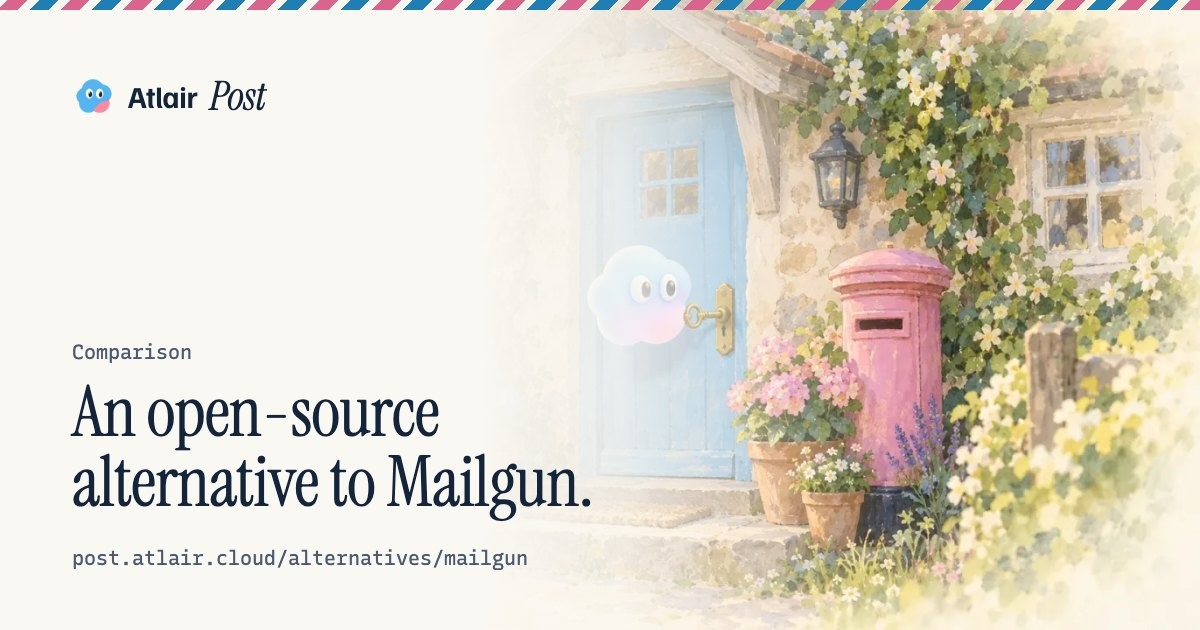
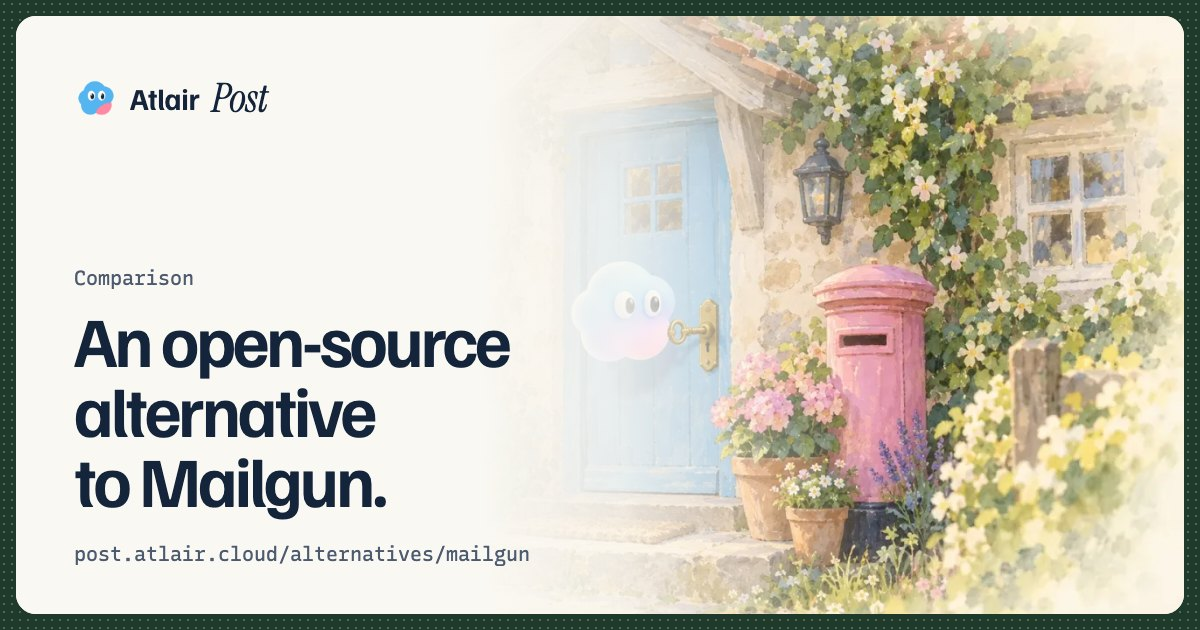
Restyle comparison and use-case pages and refresh share images
- Sans headings and small corners on the comparison, use-case and not-found pages to match the home page
- Comparison hub as separate cards, without the empty filler cell
- OG images in the new look: forest green frame, sans titles, "The post office is open." on the home card

diff --git a/apps/site/app/components/landing/alternative-page.tsx b/apps/site/app/components/landing/alternative-page.tsx
@@ -52,7 +52,7 @@ export function AlternativePage({ alt }: { alt: Alternative }) {
               </a>{' '}
               / {alt.name}
             </nav>
-            <h1 data-reveal style={delay(80)} className="mt-6 font-serif text-[3.25rem] leading-[0.98] text-balance sm:text-7xl">
+            <h1 data-reveal style={delay(80)} className="mt-6 text-[2.875rem] leading-[1] font-semibold tracking-[-0.045em] text-balance sm:text-7xl">
               {alt.openSource ? `${PRODUCT} vs ${label}.` : `An open-source alternative to ${label}.`}
             </h1>
             <p data-reveal style={delay(160)} className="mt-6 max-w-xl text-lg text-ink-soft sm:text-xl">
@@ -74,7 +74,7 @@ export function AlternativePage({ alt }: { alt: Alternative }) {
           <h2 id="compare-title" className="sr-only">
             {PRODUCT} and {label} compared
           </h2>
-          <div data-reveal className="overflow-x-auto rounded-2xl border border-line bg-card">
+          <div data-reveal className="overflow-x-auto rounded-lg border border-line bg-card">
             <table className="w-full min-w-[36rem] text-left text-[15px]">
               <thead>
                 <tr className="border-b border-line">
@@ -104,7 +104,7 @@ export function AlternativePage({ alt }: { alt: Alternative }) {
               { title: `Choose ${label} if`, items: alt.chooseThem },
             ].map((col, i) => (
               <div key={col.title} data-reveal style={delay(i * 100)}>
-                <h2 className="font-serif text-4xl">{col.title}</h2>
+                <h2 className="text-3xl font-semibold tracking-[-0.03em]">{col.title}</h2>
                 <ul className="mt-5 space-y-3">
                   {col.items.map((item) => (
                     <li key={item} className="flex gap-3 text-lg text-ink-soft">
@@ -127,7 +127,7 @@ export function AlternativePage({ alt }: { alt: Alternative }) {
               <details key={item.q} className="group border-b border-line">
                 <summary className="flex cursor-pointer list-none items-center justify-between gap-6 py-5 text-[17px] font-medium tracking-tight hover:text-sky-deep [&::-webkit-details-marker]:hidden">
                   {item.q}
-                  <span className="grid size-7 shrink-0 place-items-center rounded-full border border-line text-ink-soft transition-transform duration-300 group-open:rotate-45">
+                  <span className="grid size-7 shrink-0 place-items-center rounded-sm border border-line text-ink-soft transition-transform duration-300 group-open:rotate-45">
                     <Plus aria-hidden className="size-3.5" />
                   </span>
                 </summary>
@@ -146,7 +146,7 @@ export function AlternativePage({ alt }: { alt: Alternative }) {
           <ul className="mt-4 flex flex-wrap gap-2">
             {others.map((a) => (
               <li key={a.slug}>
-                <a href={`/alternatives/${a.slug}`} className="inline-flex h-9 items-center rounded-full border border-line bg-card px-4 text-sm hover:border-ink-faint">
+                <a href={`/alternatives/${a.slug}`} className="inline-flex h-9 items-center rounded-md border border-line bg-card px-4 text-sm hover:border-ink-faint">
                   {a.slug === 'amazon-ses' ? 'Amazon SES' : a.name}
                 </a>
               </li>

diff --git a/apps/site/app/components/landing/use-case-page.tsx b/apps/site/app/components/landing/use-case-page.tsx
@@ -25,7 +25,7 @@ export function UseCasePage({ useCase }: { useCase: UseCase }) {
               </a>{' '}
               / {useCase.name}
             </nav>
-            <h1 data-reveal style={delay(80)} className="mt-6 font-serif text-[3.25rem] leading-[0.98] text-balance sm:text-7xl">
+            <h1 data-reveal style={delay(80)} className="mt-6 text-[2.875rem] leading-[1] font-semibold tracking-[-0.045em] text-balance sm:text-7xl">
               {useCase.title}
             </h1>
             <p data-reveal style={delay(160)} className="mt-6 max-w-xl text-lg text-ink-soft sm:text-xl">
@@ -51,13 +51,13 @@ export function UseCasePage({ useCase }: { useCase: UseCase }) {
             <ul className="space-y-8">
               {useCase.points.map((p, i) => (
                 <li key={p.title} data-reveal style={delay(i * 80)}>
-                  <p className="font-serif text-3xl">{p.title}</p>
+                  <p className="text-2xl font-semibold tracking-tight">{p.title}</p>
                   <p className="mt-1.5 text-lg text-ink-soft">{p.body}</p>
                 </li>
               ))}
             </ul>
           </div>
-          <div data-reveal style={delay(120)} className="min-w-0 self-start overflow-hidden rounded-2xl border border-line bg-card">
+          <div data-reveal style={delay(120)} className="min-w-0 self-start overflow-hidden rounded-lg border border-line bg-card">
             <div className="flex items-center justify-between border-b border-line px-5 py-3">
               <span className="font-mono text-xs text-ink-faint">POST /service/web/emails</span>
               <Copy aria-hidden className="size-3.5 text-ink-faint" />
@@ -79,7 +79,7 @@ export function UseCasePage({ useCase }: { useCase: UseCase }) {
               <details key={item.q} className="group border-b border-line">
                 <summary className="flex cursor-pointer list-none items-center justify-between gap-6 py-5 text-[17px] font-medium tracking-tight hover:text-sky-deep [&::-webkit-details-marker]:hidden">
                   {item.q}
-                  <span className="grid size-7 shrink-0 place-items-center rounded-full border border-line text-ink-soft transition-transform duration-300 group-open:rotate-45">
+                  <span className="grid size-7 shrink-0 place-items-center rounded-sm border border-line text-ink-soft transition-transform duration-300 group-open:rotate-45">
                     <Plus aria-hidden className="size-3.5" />
                   </span>
                 </summary>
@@ -98,7 +98,7 @@ export function UseCasePage({ useCase }: { useCase: UseCase }) {
           <ul className="mt-4 flex flex-wrap gap-2">
             {others.map((u) => (
               <li key={u.slug}>
-                <a href={`/use-cases/${u.slug}`} className="inline-flex h-9 items-center gap-1.5 rounded-full border border-line bg-card px-4 text-sm hover:border-ink-faint">
+                <a href={`/use-cases/${u.slug}`} className="inline-flex h-9 items-center gap-1.5 rounded-md border border-line bg-card px-4 text-sm hover:border-ink-faint">
                   {u.name}
                   <ArrowRight aria-hidden className="size-3.5 text-ink-faint" />
                 </a>

diff --git a/apps/site/app/components/landing/alternatives-hub.tsx b/apps/site/app/components/landing/alternatives-hub.tsx
@@ -11,7 +11,7 @@ export function AlternativesHub() {
     <>
       <section>
         <Container className="pt-16 pb-14 lg:pt-24">
-          <h1 data-reveal className="max-w-4xl font-serif text-[3.25rem] leading-[0.98] text-balance sm:text-7xl">
+          <h1 data-reveal className="max-w-4xl text-[2.875rem] leading-[1] font-semibold tracking-[-0.045em] text-balance sm:text-7xl">
             {PRODUCT}, compared.
           </h1>
           <p data-reveal style={delay(100)} className="mt-6 max-w-xl text-lg text-ink-soft sm:text-xl">
@@ -21,10 +21,10 @@ export function AlternativesHub() {
       </section>
       <section aria-label="Comparisons" className="pb-24">
         <Container>
-          <ul className="grid gap-px overflow-hidden rounded-2xl border border-line bg-line sm:grid-cols-2 lg:grid-cols-3">
+          <ul className="grid gap-4 sm:grid-cols-2 lg:grid-cols-3">
             {alternatives.map((a, i) => (
-              <li key={a.slug} data-reveal style={delay((i % 3) * 60)} className="bg-card">
-                <a href={`/alternatives/${a.slug}`} className="group flex h-full flex-col p-6 hover:bg-surface">
+              <li key={a.slug} data-reveal style={delay((i % 3) * 60)} className="overflow-hidden rounded-lg border border-line bg-card transition-colors hover:border-ink-faint">
+                <a href={`/alternatives/${a.slug}`} className="group flex h-full flex-col p-6">
                   <span className="flex items-center justify-between gap-3">
                     <span className="text-xl font-semibold tracking-tight">
                       {PRODUCT} vs {a.slug === 'amazon-ses' ? 'Amazon SES' : a.name}

diff --git a/apps/site/app/components/landing/use-cases-hub.tsx b/apps/site/app/components/landing/use-cases-hub.tsx
@@ -9,7 +9,7 @@ export function UseCasesHub() {
     <>
       <section>
         <Container className="pt-16 pb-14 lg:pt-24">
-          <h1 data-reveal className="max-w-4xl font-serif text-[3.25rem] leading-[0.98] text-balance sm:text-7xl">
+          <h1 data-reveal className="max-w-4xl text-[2.875rem] leading-[1] font-semibold tracking-[-0.045em] text-balance sm:text-7xl">
             The emails your product sends.
           </h1>
           <p data-reveal style={delay(100)} className="mt-6 max-w-xl text-lg text-ink-soft sm:text-xl">
@@ -24,7 +24,7 @@ export function UseCasesHub() {
               <li key={u.slug} data-reveal style={delay((i % 3) * 80)}>
                 <a href={`/use-cases/${u.slug}`} className="block">
                   <Postcard art={u.art} sizes="(min-width: 1024px) 33vw, 100vw" tilt={[-1.4, 1, -0.6][i % 3]} stamp={`${i + 1}¢`}>
-                    <p className="font-serif text-3xl">{u.name}</p>
+                    <p className="text-2xl font-semibold tracking-tight">{u.name}</p>
                     <p className="mt-1.5 text-ink-soft">{u.dek}</p>
                   </Postcard>
                 </a>

diff --git a/apps/site/app/components/landing/shared.tsx b/apps/site/app/components/landing/shared.tsx
@@ -91,7 +91,7 @@ export function usePlayOnView<T extends Element>(amount = 0.4) {
 
 export function Title({ id, className, children }: { id?: string; className?: string; children: ReactNode }) {
   return (
-    <h2 id={id} className={cn('font-serif text-5xl leading-[1.02] tracking-[-0.01em] text-balance sm:text-6xl', className)}>
+    <h2 id={id} className={cn('text-4xl leading-[1.02] font-semibold tracking-[-0.04em] text-balance sm:text-5xl lg:text-6xl', className)}>
       {children}
     </h2>
   )

diff --git a/apps/site/app/routes/alternative.tsx b/apps/site/app/routes/alternative.tsx
@@ -16,7 +16,7 @@ export default function Alternative({ params }: Route.ComponentProps) {
         <AlternativePage alt={alt} />
       ) : (
         <Container className="py-32">
-          <h1 className="font-serif text-6xl">This letter got lost.</h1>
+          <h1 className="text-5xl font-semibold tracking-[-0.045em] sm:text-6xl">This letter got lost.</h1>
           <PrimaryCta href="/alternatives" className="mt-8">
             See all comparisons
           </PrimaryCta>

diff --git a/apps/site/app/routes/use-case.tsx b/apps/site/app/routes/use-case.tsx
@@ -16,7 +16,7 @@ export default function UseCase({ params }: Route.ComponentProps) {
         <UseCasePage useCase={useCase} />
       ) : (
         <Container className="py-32">
-          <h1 className="font-serif text-6xl">This letter got lost.</h1>
+          <h1 className="text-5xl font-semibold tracking-[-0.045em] sm:text-6xl">This letter got lost.</h1>
           <PrimaryCta href="/use-cases" className="mt-8">
             See all use cases
           </PrimaryCta>
